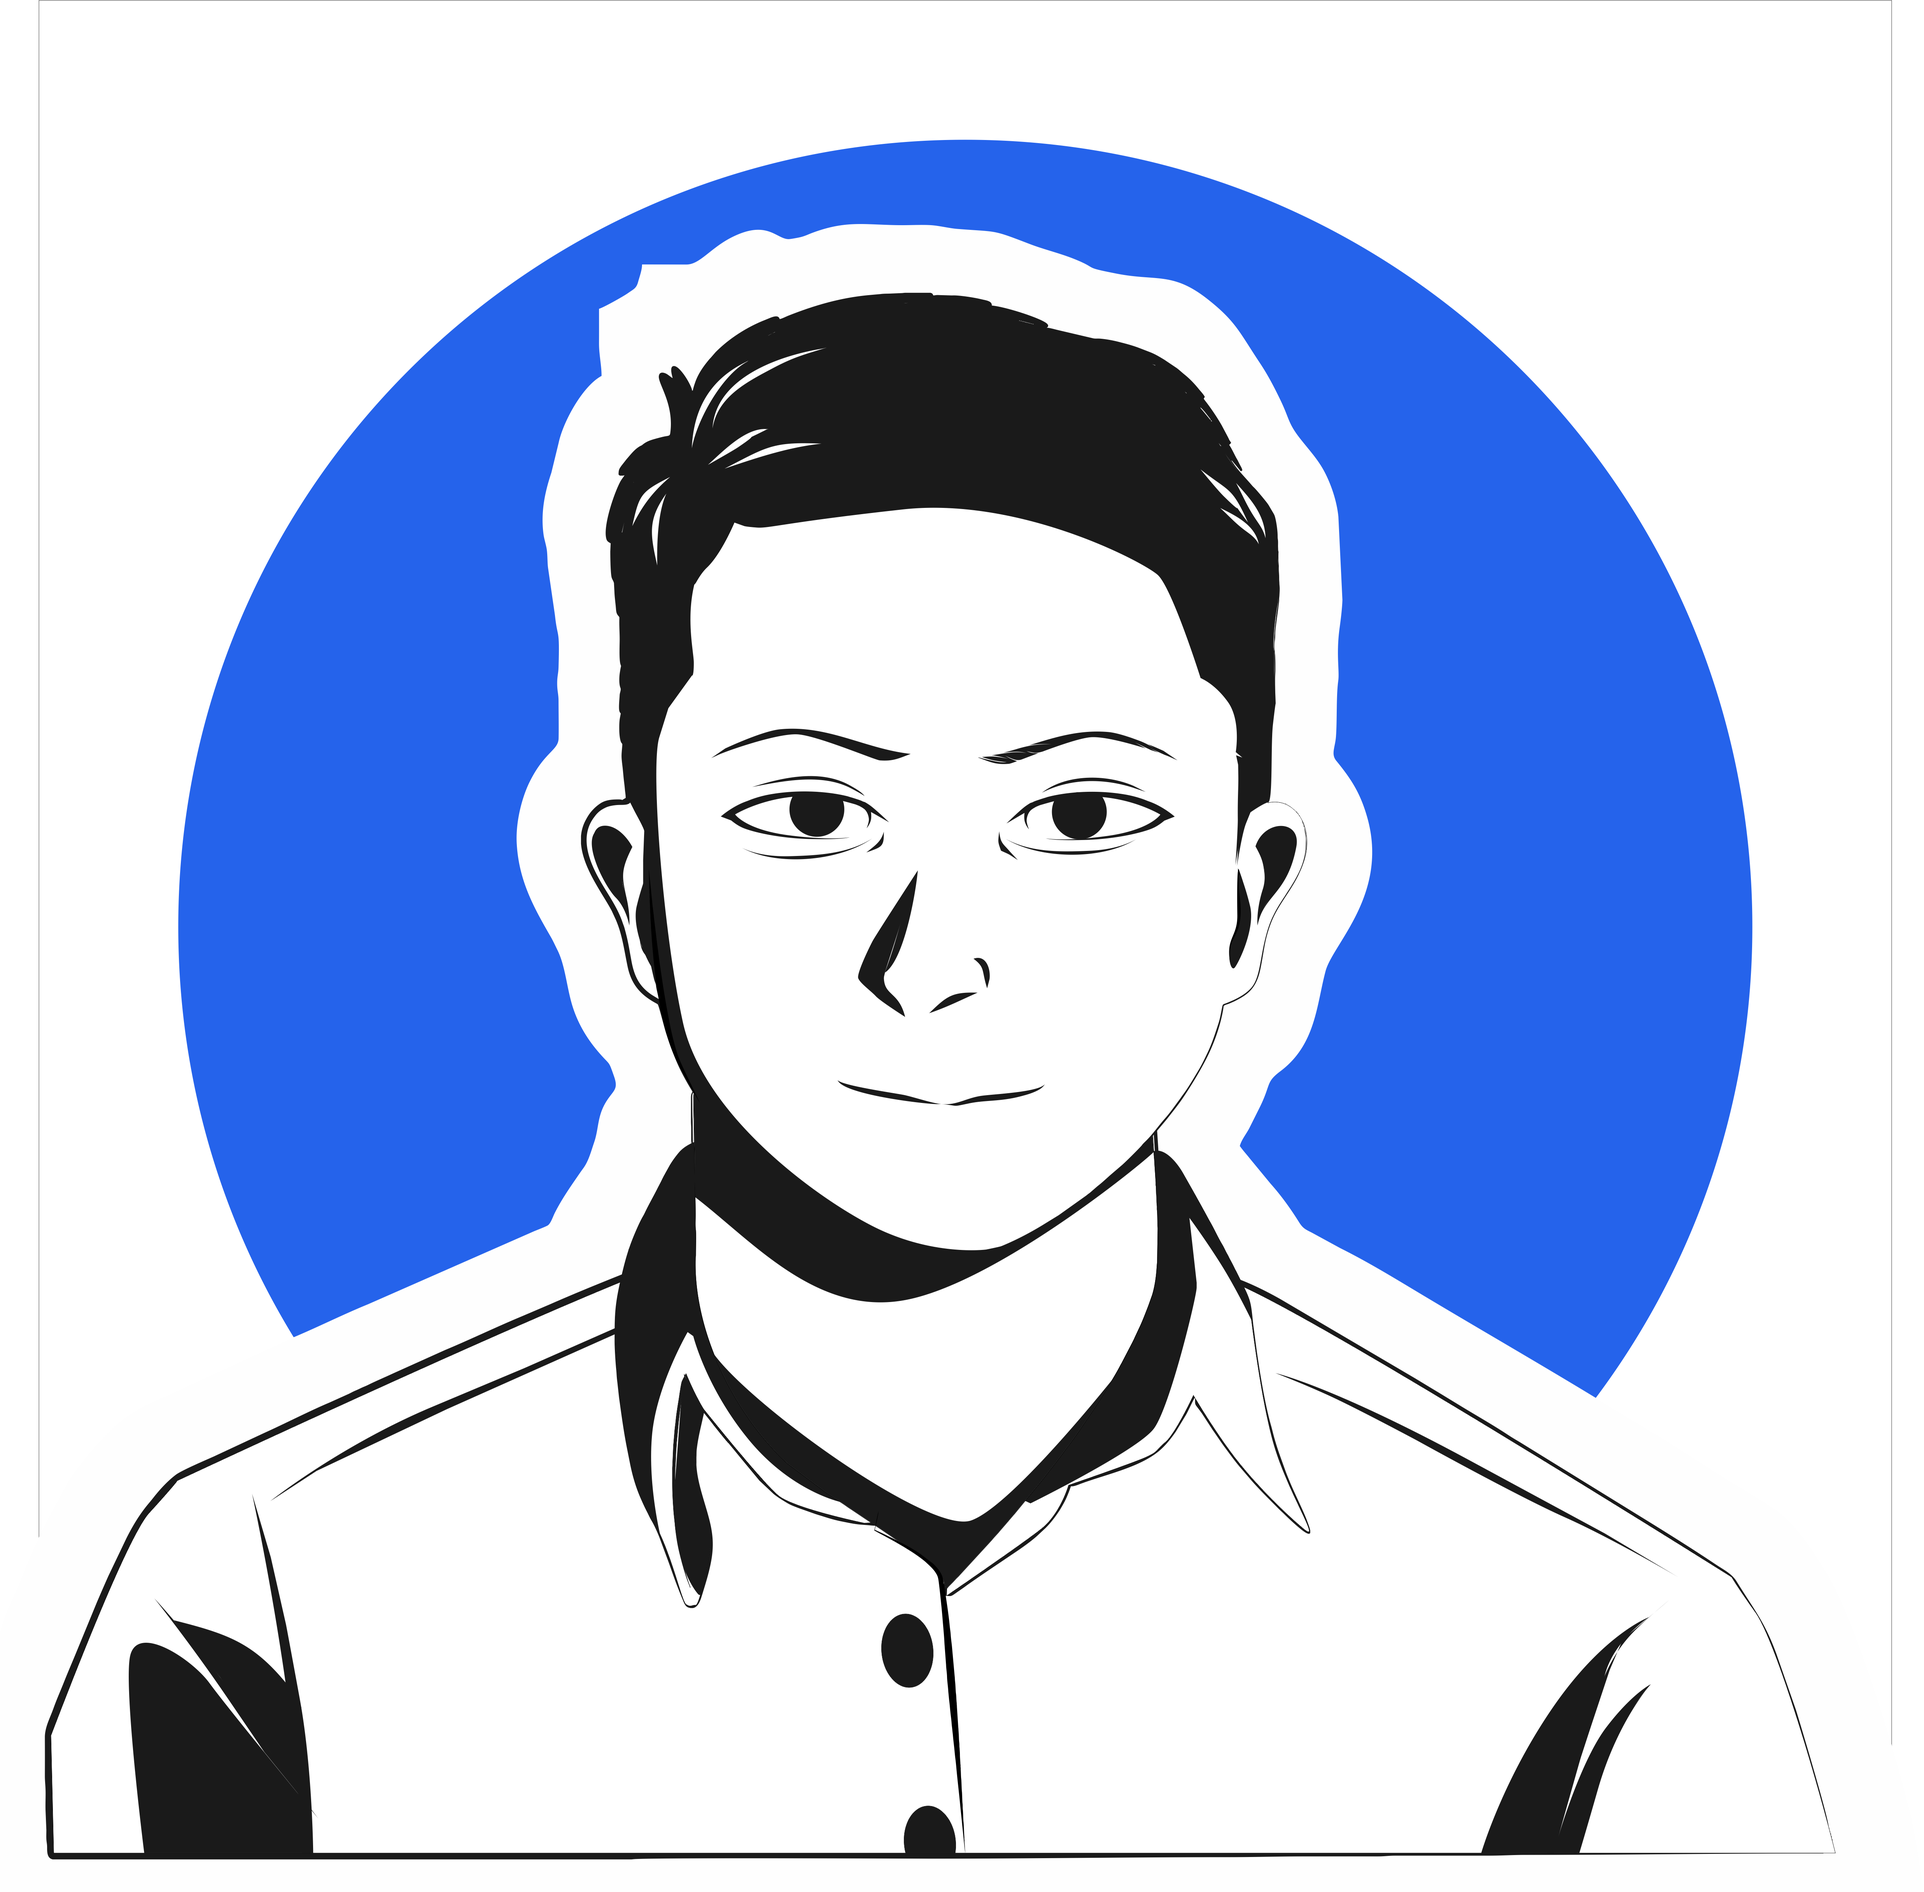
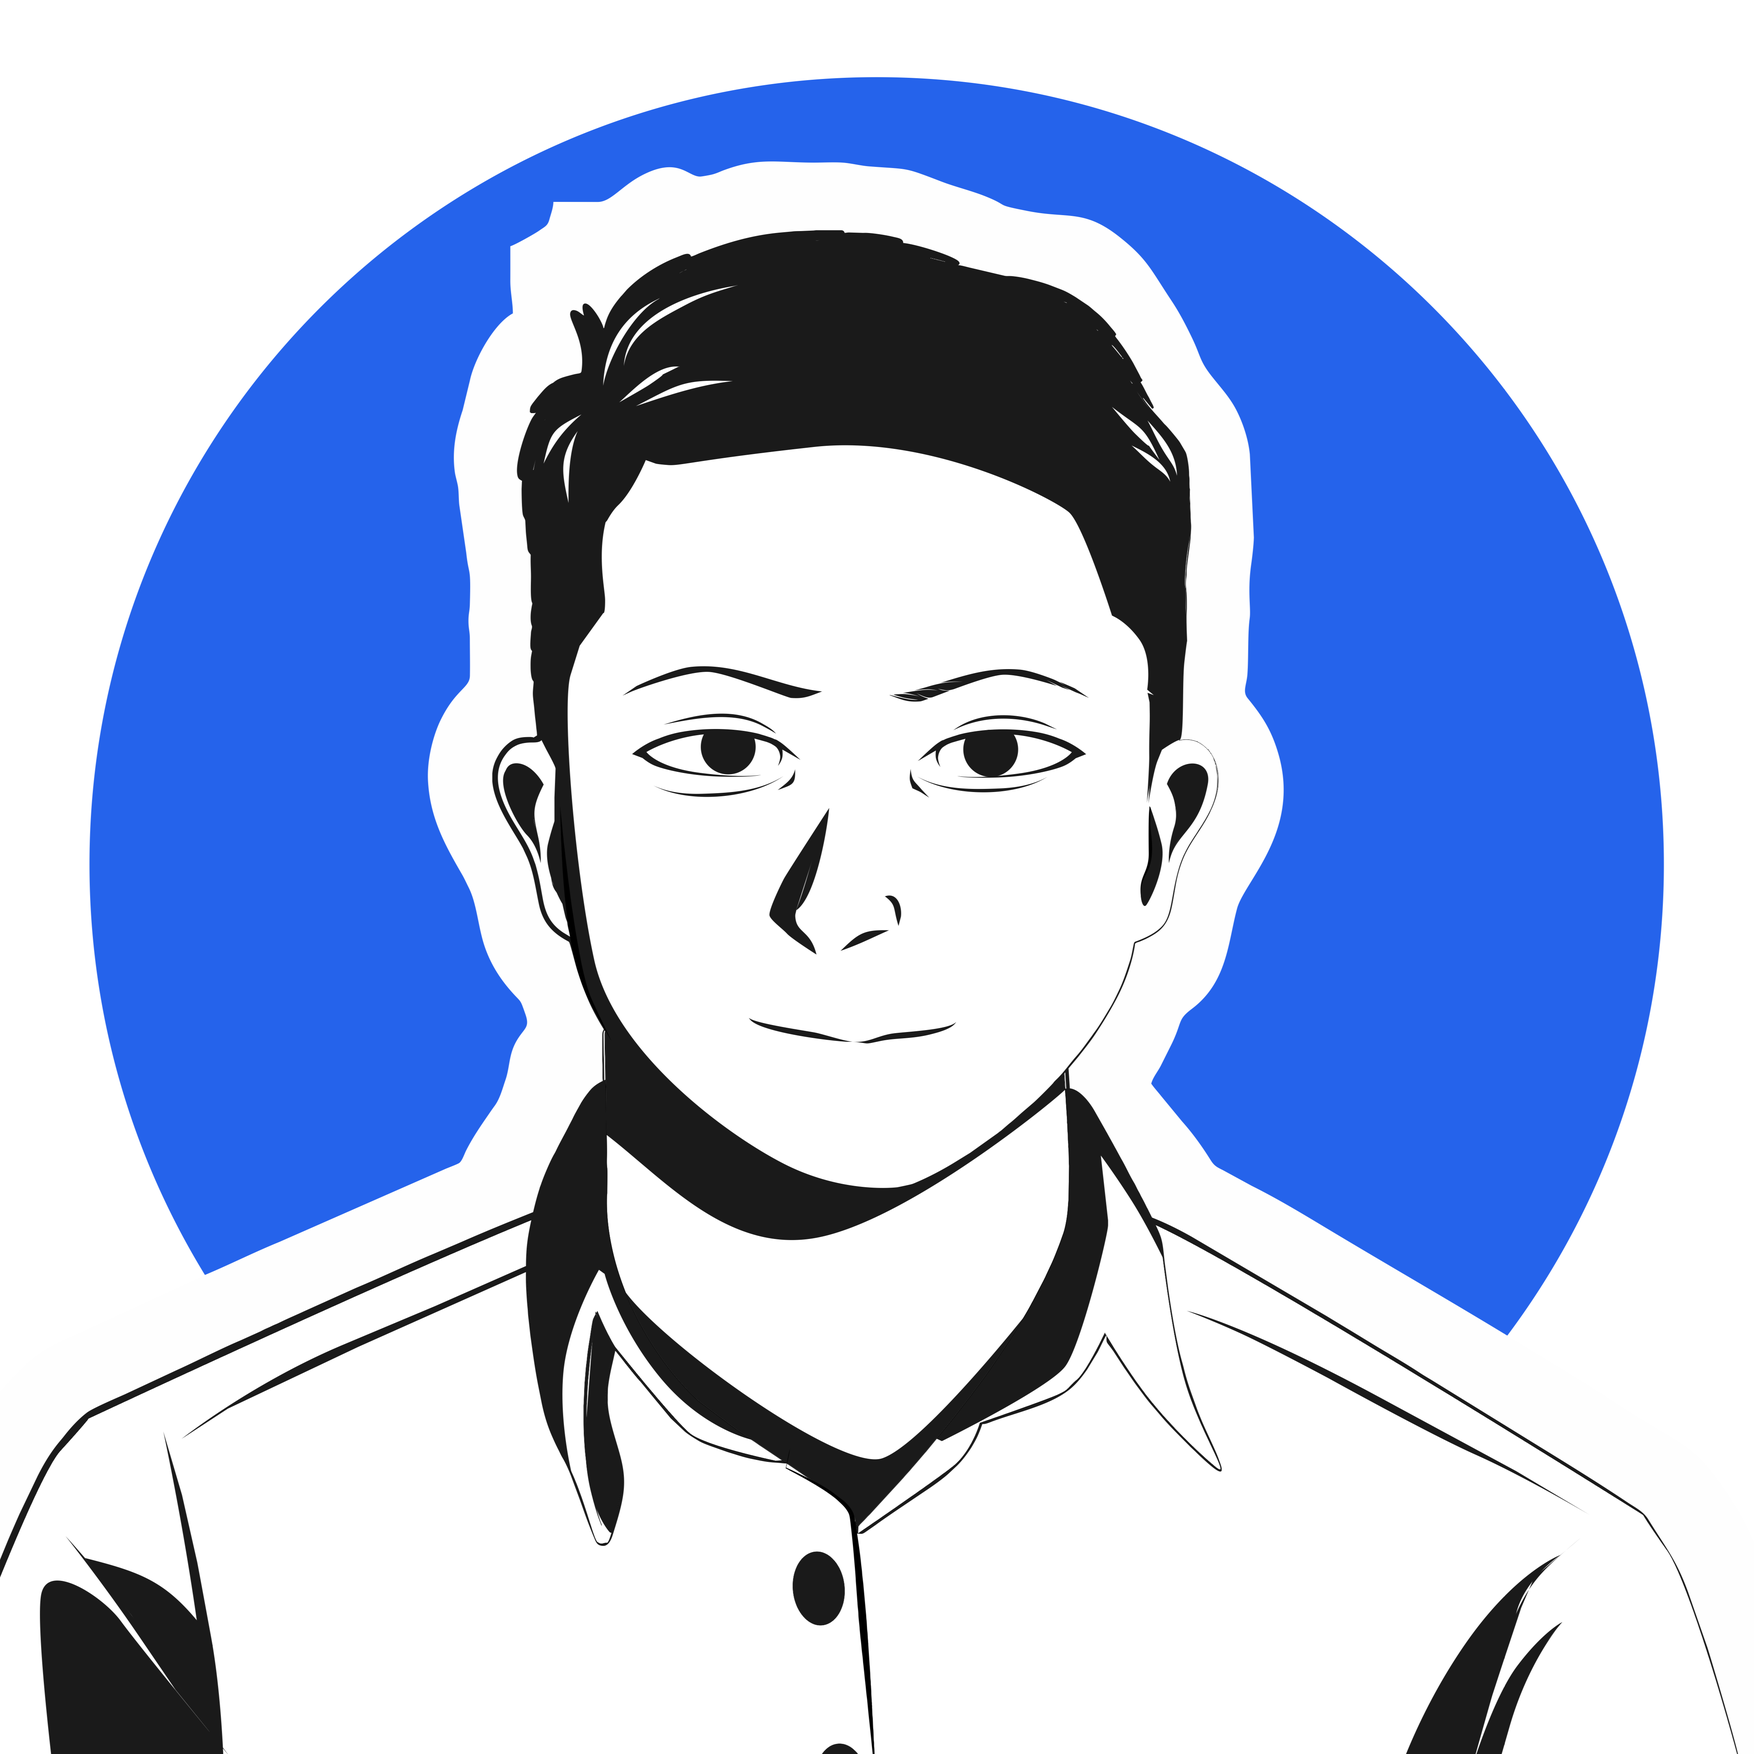
baru lagi

diff --git a/tes.html b/tes.html
@@ -106,11 +106,11 @@
     <section class="page1">
         <div class="container w-10/12 flex mx-auto h-screen justify-between items-center" id="page1">
             <div class="profilPics flex items-center w-1/2">
-                <img src="gambar/updateMe.png" class="pics rounded-full w-1/2 transition-all duration-200 transform hover:scale-110 hover:origin-left cursor-pointer" alt="">
+                <img src="gambar/updateMe.png" class="pics border-8 rounded-full  border-blue-700 w-80 transition-all duration-200 transform hover:scale-110 hover:origin-left cursor-pointer" alt="">
             </div>
             <div class="aboutMe flex w-1/2 flex-col">
-                <h1 class="name text-blue-600 text-left text-4xl font-bold pb-3">Hi, im Farrel</h1>
-                <p>
+                <h1 class="name text-blue-600 text-left text-5xl font-bold pb-3">Hi, im Farrel</h1>
+                <p class="text text-xl">
                     Oke, aku seorang mahasiswa di program studi yang berbau informatika, yang juga mendalami vector ilustration, ui ux design, dan baru terjun ke dunia front end web developer. Selamat datang di website portofolio ku, hope you enjoy guys~
                 </p>
             </div>
@@ -124,10 +124,10 @@
     <section class="page2">
         <div class="container2 pt-2 w-full bg-blue-600 flex flex-col mx-auto h-auto justify-center items-center" id="page2" style="margin-top: -2px;">
             <div class="content2 flex mx-auto w-10/12 flex-col">
-                <h1 class="name text-white text-left text-4xl font-bold pb-3">
+                <h1 class="name text-white text-left text-5xl font-bold pb-3">
                     What do i do?
                 </h1>
-                <p class="text text-white text-justify">
+                <p class="text text-white text-justify text-xl">
                     Sebenarnya ada banyak kegiatan yang biasa ku lakuin waktu senggang, tapi karena ukuran halaman yang seadanya dan nanti page lain ga kebagian, jadi ditaruh top 3 kegiatan yang sering dilakuin sehari-hari.
                 </p>
                 <div class="activity flex flex-row justify-center gap-10 pt-10">
@@ -136,7 +136,7 @@
                         <h1 class="name text-gray-800 text-left text-xl font-bold">
                             Programming
                         </h1>
-                        <p class="caption2 text-justify">
+                        <p class="caption2 text-justify text-xl">
                             Berhubung di jurusan yang mengandung informatika, jadi ya gara-gara tugas atau gabut juga sering bikin program atau web (kadang).
                         </p>
                     </div>
@@ -145,7 +145,7 @@
                         <h1 class="name text-gray-800 text-left text-xl font-bold">
                             Design
                         </h1>
-                        <p class="caption2 text-justify">
+                        <p class="caption2 text-justify text-xl">
                             FYI, pernah juga join organisasi dan jobdesk disini ga jauh-jauh sama desain. Selain hobi juga jadi mau ga mau harus ngerjain jobdesk.
                         </p>
                     </div>
@@ -154,7 +154,7 @@
                         <h1 class="name text-gray-800 text-left text-xl font-bold">
                             Nongkrong
                         </h1>
-                        <p class="caption2 text-justify">
+                        <p class="caption2 text-justify text-xl">
                             Namanya juga orang, kadang pasti juga ngerasa gabut. Sesekali oke lah, nongkrong ngapain? ya ngegame hehe.
                         </p>
                     </div>
@@ -170,37 +170,37 @@
     <section class="page3" id="page3">
         <div class="container2 pt-2 w-full bg-white flex flex-col mx-auto h-auto justify-center items-center" id="page2" style="margin-top: -2px;">
             <div class="content2 flex mx-auto w-10/12 flex-col">
-                <h1 class="name text-blue-700 text-left text-4xl font-bold pb-3">
+                <h1 class="name text-blue-700 text-left text-5xl font-bold pb-3">
                     Portofolio
                 </h1>
-                <p class="text text-gray-800 text-justify">
+                <p class="text text-xl text-gray-800 text-justify">
                     Berikut merupakan beberapa project yang dilakukan dalam tim ataupun individu dalam beberapa waktu kebelakang.
                 </p>
                 <div class="activity flex flex-row justify-around pt-10">
-                    <div class="card flex flex-col rounded-lg p-3 justify-start w-80 h-auto bg-white">
+                    <div class="card flex flex-col rounded-lg p-3 justify-between w-80 h-auto bg-white">
                         <img src="gambar/portofolio/esc.png" alt="" class="PortofolioPics transition-transform duration-200 transform hover:scale-110 cursor-pointer">
-                        <h1 class="name text-blue-700 text-left text-xl font-bold pt-3">
+                        <h1 class="name text-blue-700 text-left text-2xl font-bold pt-3">
                             Website Electrical Science Club 2024
                         </h1>
-                        <p class="caption2 text-justify">
+                        <p class="caption2 text-justify text-xl">
                             Sebagai Front End Developer
                         </p>
                     </div>
-                    <div class="card flex flex-col rounded-lg p-3 justify-start w-80 h-auto bg-white">
+                    <div class="card flex flex-col rounded-lg p-3 justify-between w-80 h-auto bg-white">
                         <img src="gambar/portofolio/Separo.png" alt="" class="PortofolioPics transition-transform duration-200 transform hover:scale-110 cursor-pointer">
-                        <h1 class="name text-blue-700 text-left text-xl font-bold pt-3">
+                        <h1 class="name text-blue-700 text-left text-2xl font-bold pt-3">
                             Separo : Sistem Peminjaman Ruang Online
                         </h1>
-                        <p class="caption2 text-justify">
+                        <p class="caption2 text-justify text-xl">
                             Sebagai Front End Developer
                         </p>
                     </div>
-                    <div class="card flex flex-col rounded-lg p-3 justify-start w-80 h-auto bg-white">
+                    <div class="card flex flex-col rounded-lg p-3 justify-between w-80 h-auto bg-white">
                         <img src="gambar/portofolio/arcaloka.png" alt="" class="PortofolioPics transition-transform duration-200 transform hover:scale-110 cursor-pointer">
-                        <h1 class="name text-blue-700 text-left text-xl font-bold pt-3">
+                        <h1 class="name text-blue-700 text-left text-2xl font-bold pt-3">
                             Arcaloka : Gamifikasi Dalam Edukasi Sejarah
                         </h1>
-                        <p class="caption2 text-justify">
+                        <p class="caption2 text-justify text-xl">
                             Sebagai UI/UX Designer
                         </p>
                     </div>
